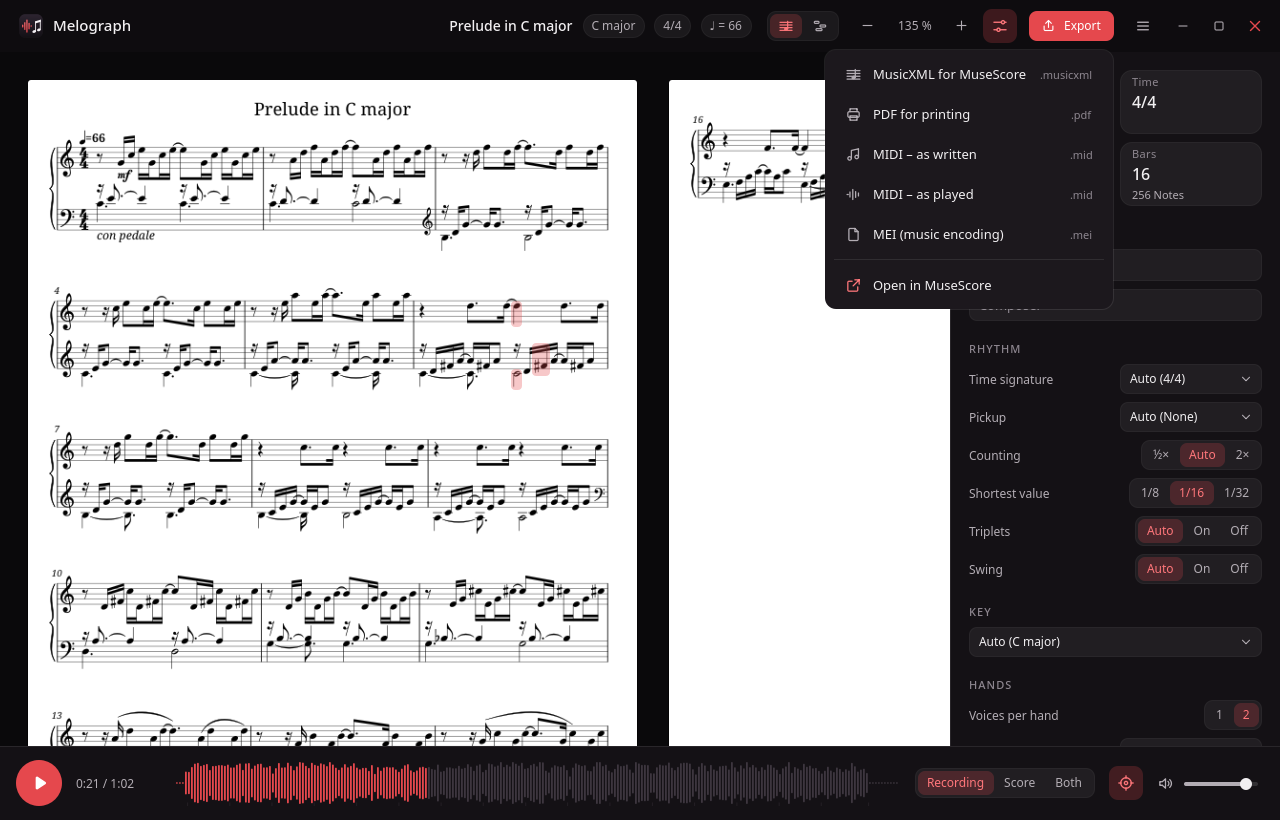
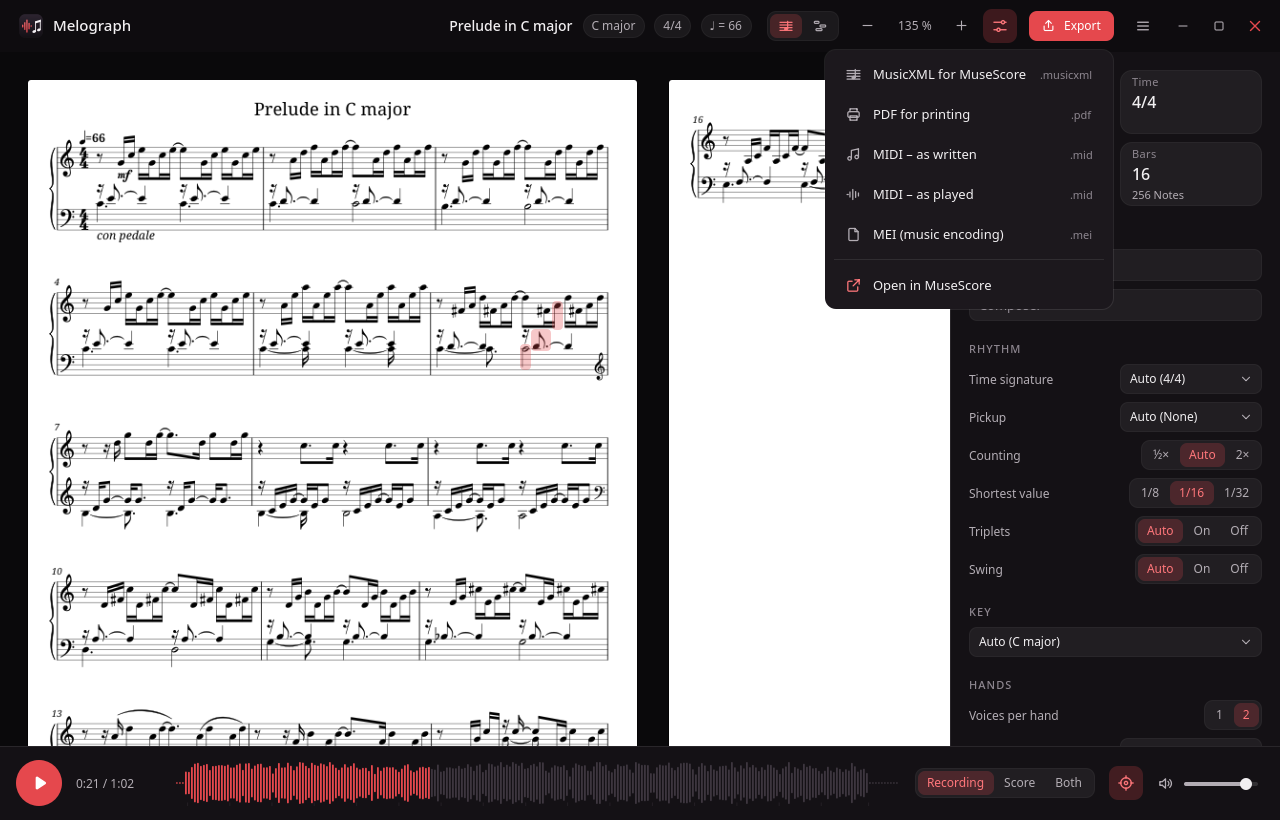
README: what changed in the engine, fresh pictures

diff --git a/README.md b/README.md
@@ -63,8 +63,9 @@ pulse and the bars, and writes the music the way an engraver would:
   held while the hand plays on – and nowhere else.
 - **Rhythm** that reads well: each beat gets its own subdivision (eighths,
   sixteenths, triplets, quarter-note triplets), chosen for the whole piece
-  together, so one late note does not turn a bar into a triplet. Ties and rests
-  follow engraving rules; simple syncopations and dotted figures stay one note.
+  together, so one late note does not turn a bar into a triplet – and for each
+  hand by itself, so a triplet over plain eighths is three against two. Ties and
+  rests follow engraving rules; simple syncopations and dotted figures stay one note.
 - **Time signature and pickup**, including compound meters (6/8, 9/8, 12/8) –
   and **changes of metre**: a section in 12/8 inside a piece in 4/4, a single
   bar of 3/4.
@@ -146,8 +147,9 @@ opens instantly.
 
 1. **Hearing the keys** – [Transkun](https://github.com/Yujia-Yan/Transkun)
    (Yan & Duan, ISMIR 2024), a transformer with a neural semi-CRF, gives onset,
-   release, loudness and pedal of every note. Overtones that were heard as notes
-   of their own are removed again.
+   release, loudness and pedal of every note. A much softer octave or twelfth
+   that only rings along with a note is taken out again; octaves that were
+   played stay.
 2. **Pulse and bars** – [Beat This!](https://github.com/CPJKU/beat_this)
    (Foscarin, Schlüter & Widmer, ISMIR 2024) says fifty times a second how
    likely a beat and a downbeat are. Melograph reads these probabilities
@@ -157,15 +159,18 @@ opens instantly.
    that a change of metre or a fermata does not push everything after it off
    the beat. A pause is one long beat, and bars that a ritardando has pulled
    out of shape are counted again (`melograph/beats.py`).
-3. **Rhythm** – a dynamic programme picks one subdivision per beat for the whole
-   piece; grace notes, trills and rolled chords are recognised first, so they do
-   not end up as clouds of 32nd notes. Stretches whose beats fall into three
-   become compound time.
+3. **Rhythm** – a dynamic programme picks the subdivision of every beat for the
+   whole piece; grace notes, trills and rolled chords are recognised first, so
+   they do not end up as clouds of 32nd notes. Stretches whose beats fall into
+   three become compound time. Once the hands are known, each gets its own
+   subdivision: a triplet over plain eighths is written as three against two,
+   and a figure that comes back is written the same way each time.
 4. **Hands** – every chord is cut at some pitch; a beam search over the piece
    decides where, by what two real hands do: stretch, travel, time to travel,
    keys still held, hands not crossing – and habit: a hand plays again the keys
-   it has just played and goes on with the figure it is running, which keeps
-   an accompaniment in the left hand when it climbs into the tune's register.
+   it has just played and keeps the rhythm it has been playing, which keeps
+   an accompaniment in the left hand when it climbs into the tune's register
+   and a figure in the right hand when it dips into the accompaniment's.
 5. **Lengths and voices** – a note lasts until the next one in the same hand; a
    rest stands where the sound really stops or a detached note leaves a gap; a
    tie over a beat or a bar line only where the key stays down; a second voice
@@ -183,11 +188,14 @@ opens instantly.
 - Best with **solo piano** in a decent recording. Voices or other instruments
   turn into wrong notes.
 - Changes of metre and key are found where the music makes them clear. In very
-  free **rubato** a bar can come out a beat short or long, and music without a
-  felt pulse gives restless rhythms – `--grid 8` or `--triplets off` help, and
-  a time signature or key you set yourself holds for the whole piece.
-- A rhythm between two readings is written as it was played: a lazy
-  quarter-note triplet may come out as dotted eighths.
+  free **rubato** a bar can come out a beat short or long, a few bars in
+  another metre can have their bar lines a beat off, and music without a felt
+  pulse gives restless rhythms – `--grid 8` or `--triplets off` help, and a
+  time signature or key you set yourself holds for the whole piece.
+- In chromatic music the **key signature** of a passage can differ from what
+  an editor would choose; the notes are the same, with more accidentals.
+- A rhythm between two readings is written as it was played, unless the same
+  figure is clear elsewhere in the piece.
 - The hand split follows what is comfortable to play, not always what a
   composer wrote; dense **broken-chord textures** sometimes give a note to the
   wrong hand. Fingerings, repeats and lyrics are not written.
